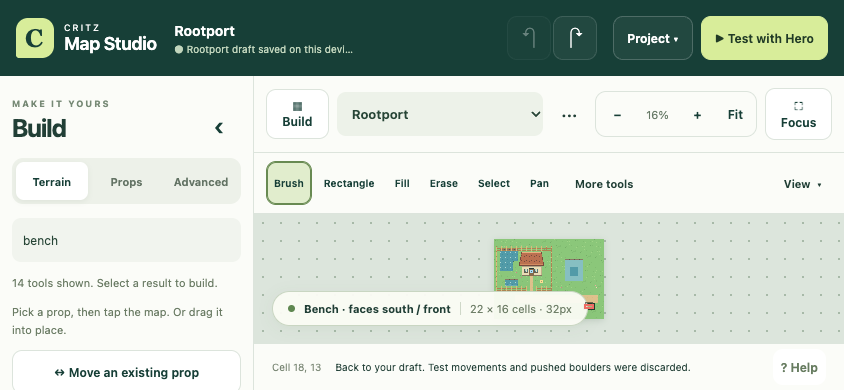
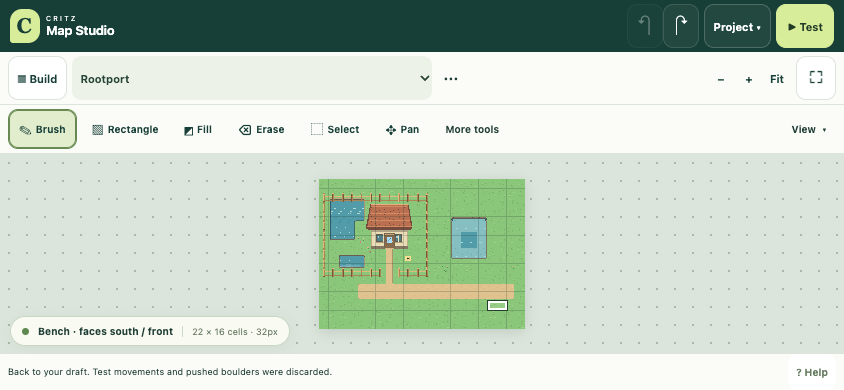
Give short landscape windows the compact map-building layout

diff --git a/map-editor/editor.css b/map-editor/editor.css
@@ -147,7 +147,7 @@ dialog h2{font-size:25px;margin:0 0 18px}
 .focus-mode .tool-bar{display:none}
 .focus-mode .canvas-hint{display:none}
 
-@media(min-width:761px){#project-drawer{position:fixed;margin:0 0 0 auto;top:0;right:0;height:100dvh;max-height:100dvh;width:370px;max-width:90vw;border-radius:18px 0 0 18px;border-right:0}
+@media(min-width:761px) and (min-height:501px){#project-drawer{position:fixed;margin:0 0 0 auto;top:0;right:0;height:100dvh;max-height:100dvh;width:370px;max-width:90vw;border-radius:18px 0 0 18px;border-right:0}
 .palette::backdrop{display:none}
 }
 
@@ -162,7 +162,7 @@ dialog h2{font-size:25px;margin:0 0 18px}
 #copy{display:none}
 }
 
-@media(max-width:760px){header{height:64px;padding:0 10px;gap:10px}
+@media(max-width:760px), (max-height:500px) and (max-width:1100px){header{height:64px;padding:0 10px;gap:10px}
 .brand-icon{width:30px;height:34px;font-size:21px}
 .brand{gap:6px;font-size:7px}
 .brand b{font-size:13px}
@@ -234,4 +234,18 @@ dialog:not(.palette){padding:20px;max-height:90dvh}
 }
 
 @media(prefers-reduced-motion:reduce){button{transition:none}
+}
+
+/* Short landscape windows use the tray and retain room for the map. */
+@media(max-height:500px) and (min-width:600px) and (max-width:1100px){
+ header{height:52px}main{height:calc(100dvh - 52px)}
+ .map-bar{padding:4px 8px}.map-select{max-width:360px}
+ .tool-bar{flex-wrap:nowrap;padding:4px 8px;gap:6px}
+ .segmented{display:flex;width:auto;gap:4px}
+ .segmented button{flex-direction:row;gap:4px;min-height:40px;padding:6px 10px}
+ .segmented button span{font-size:14px}
+ .bottom-bar{min-height:34px;padding:0 8px}
+ .canvas-label{bottom:8px}
+ .palette{max-height:88dvh}
+ .palette .panel-heading{padding:0}.palette .panel-heading h1{font-size:19px}
 }

diff --git a/map-editor/ui.js b/map-editor/ui.js
@@ -6,7 +6,7 @@ export function organizePalette(){
 }
 function syncTabs(){document.querySelectorAll('[data-tab]').forEach(b=>b.tabIndex=b.getAttribute('aria-selected')==='true'?0:-1);}
 export function setupStudioUI(){
- const palette=$('build-drawer'),project=$('project-drawer'),phone=matchMedia('(max-width: 760px)');
+ const palette=$('build-drawer'),project=$('project-drawer'),phone=matchMedia('(max-width: 760px), (max-height: 500px) and (max-width: 1100px)');
  const syncBuild=()=>$('open-build').setAttribute('aria-expanded',String(palette.open));
  function closeBuild(){palette.close();syncBuild();}
  function openBuild(){if(palette.open)return;if(phone.matches)palette.showModal();else palette.show();syncBuild();}

diff --git a/docs/reviews/M1-ME10/README.md b/docs/reviews/M1-ME10/README.md
@@ -29,7 +29,7 @@ All browser tests use fresh isolated Playwright contexts with synthetic storage;
 -6 bench groups: hop/seated lock/front-only exit in all four directions, searchable phone props, no errors.
 -15 usability groups: collapse/reopen, search categories, exact painting/history, keyboard editing with open desktop palette, ARIA tabs, View/layers, Focus, single-modal share/download/test/help,320/390 phone,844×390 landscape,1024 tablet, actual touch placement and no browser exceptions.
 
-The first new test exposed a hidden Fit button at320px; it is now retained. The older general drag test used a fixed screen location that became outside the map under the larger canvas; it now targets an actual free map cell. These repairs were followed by passing runs.
+The first new test exposed a hidden Fit button at320px; it is now retained. The final screenshot review caught a cramped desktop palette in844×390 landscape after the initial version55 publication; the follow-up uses the modal tray and a compact toolbar there, with an explicit minimum800×190 canvas assertion. The older general drag test used a fixed screen location that became outside the map under the larger canvas; it now targets an actual free map cell. These repairs were followed by passing runs.
 
 Screenshots: [before](before.png), [desktop](desktop.png), [phone](viewport-390x844.png), [phone Build](build-390.png), [320px](viewport-320x640.png), [landscape](viewport-844x390.png), [touch](phone-touch.png). Reports under `general/`, `areas/`, `benches/`, and `ui-checks.json`; source and production runs pass all50 browser groups (15+22+7+6). Hosted receipts are recorded separately.
 
